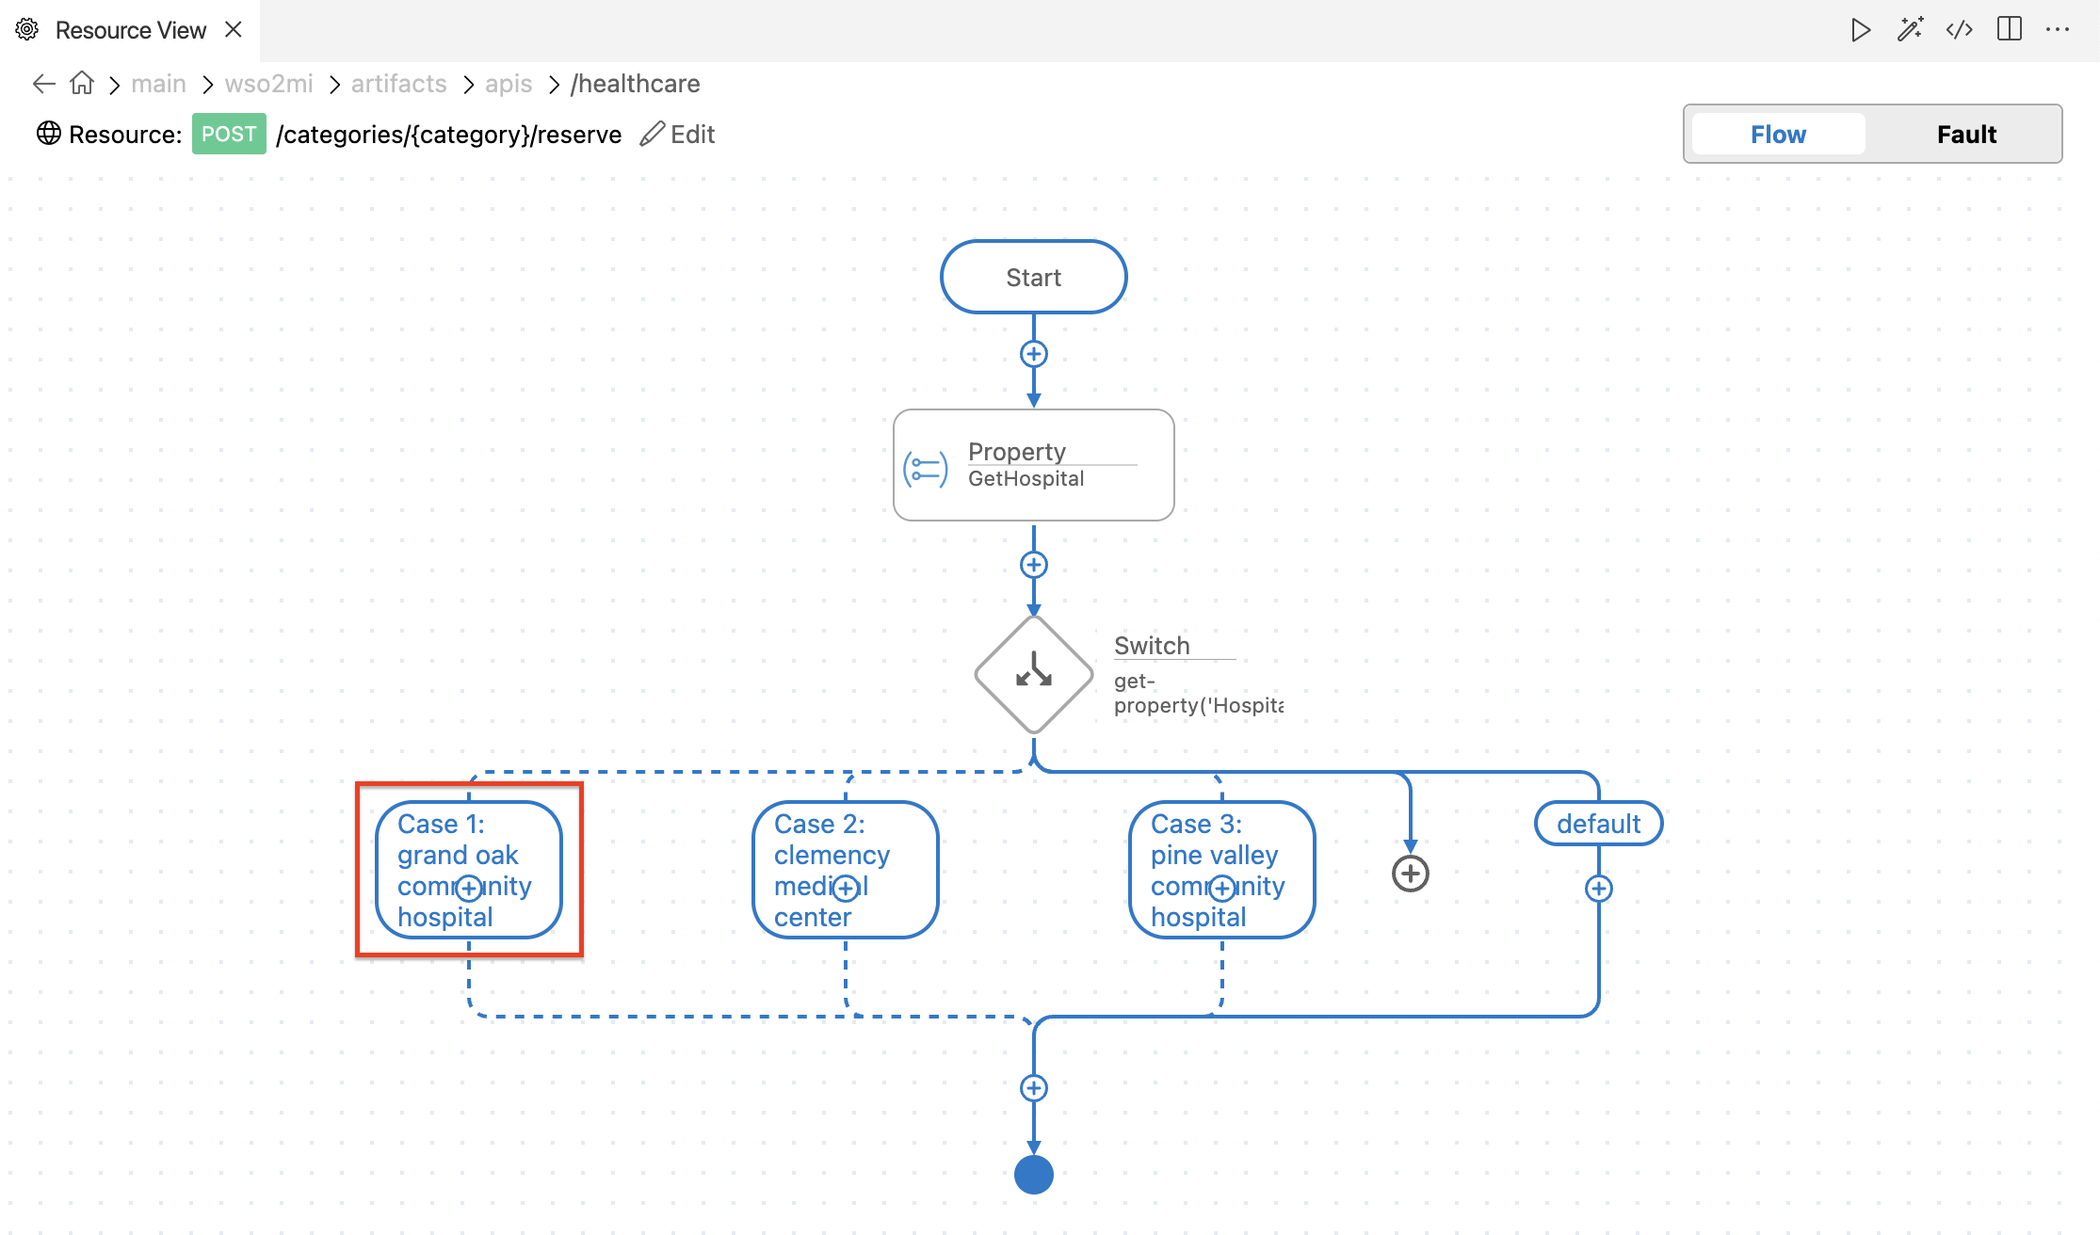
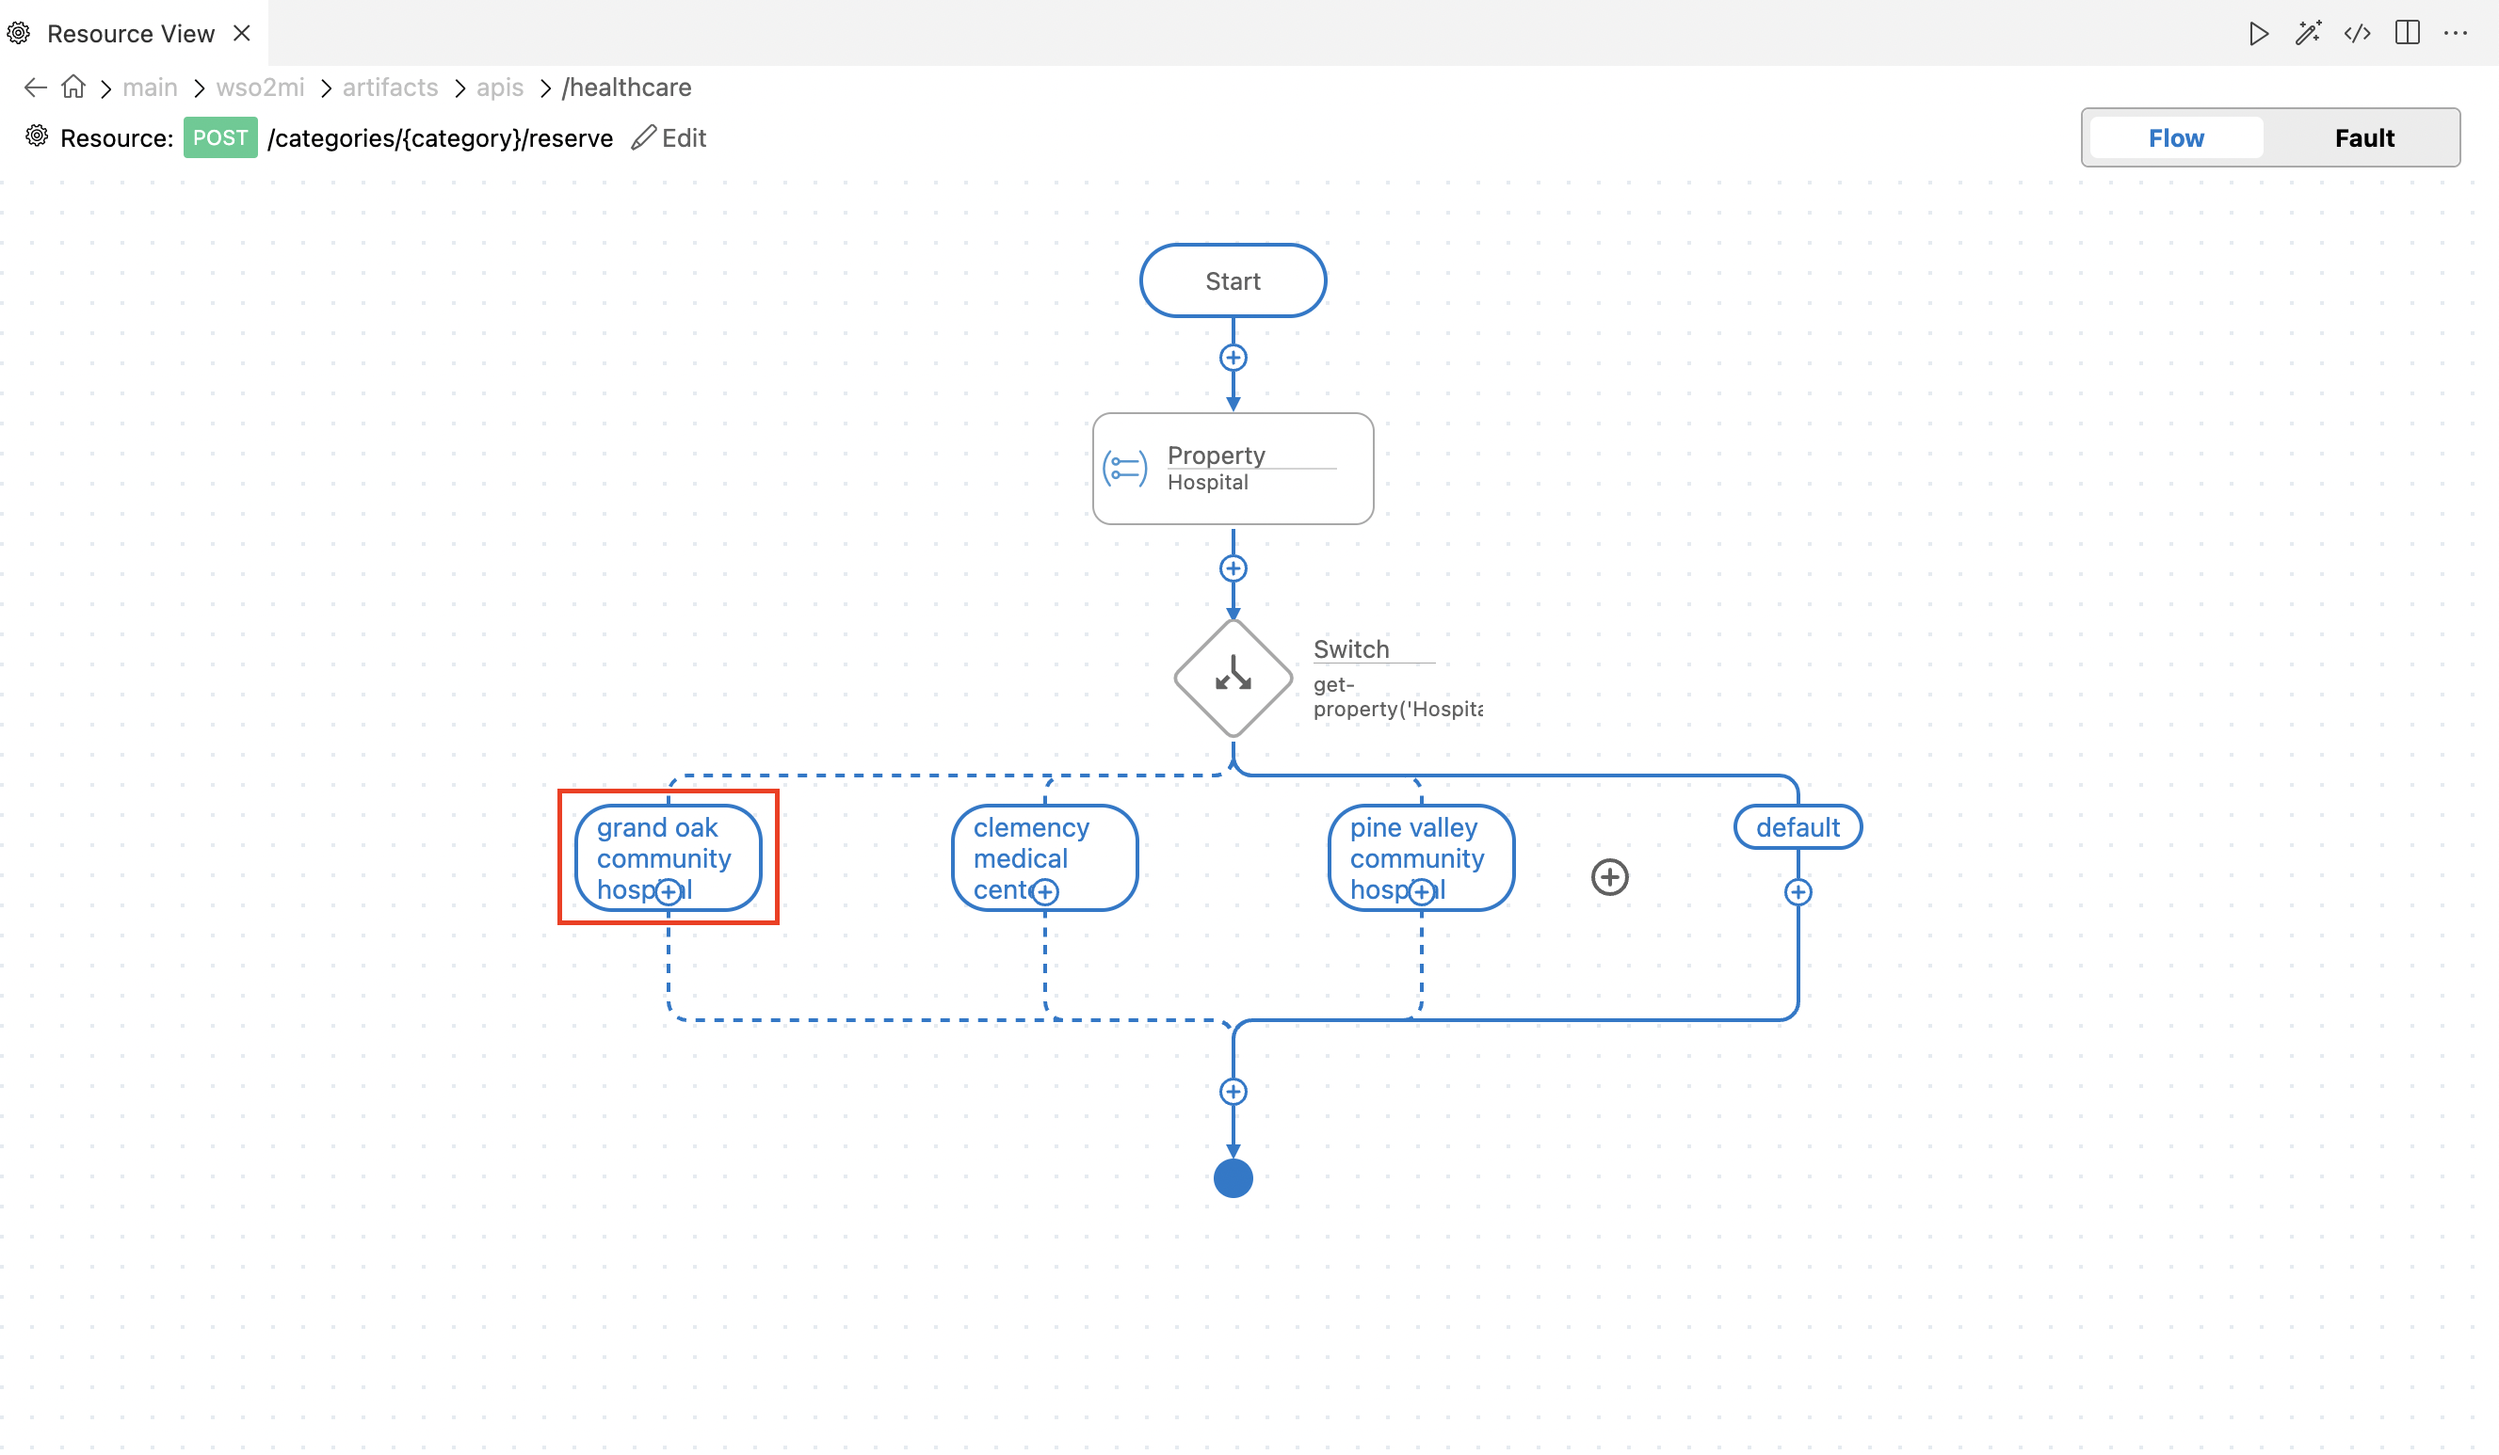
Fix message rounting tutorial issues
This is to fix:
https://github.com/wso2/docs-mi/issues/950
https://github.com/wso2/docs-mi/issues/952

diff --git a/en/docs/learn/integration-tutorials/routing-requests-based-on-message-content.md b/en/docs/learn/integration-tutorials/routing-requests-based-on-message-content.md
@@ -250,17 +250,22 @@ You can now start configuring the API resource.
    
       2. Change the **Case RegEx** value for the switch cases as follows:
 
+         Case1: 
          ```
-         Case 1: grand oak community hospital
+         grand oak community hospital
          ```
          
       3. Click **Save**.
 
       4. Similarly, add two other branches and change the **Case RegEx** value for the respective switch cases as follows.
 
+         Case 2:
          ```
-         Case 2: clemency medical center
-         Case 3: pine valley community hospital 
+         clemency medical center
+         ```
+         Case3:
+         ```
+         pine valley community hospital
          ```
 
 9. Click **Submit** to save the values for Switch mediator.
@@ -331,6 +336,13 @@ You can now start configuring the API resource.
             </ol>
         </td>
     </tr>
+    <tr>
+        <td>Description</td>
+        <td><code>GrandOak Log</code></td>
+        <td>
+           A description for the log mediator.
+        </td>
+    </tr>
     </table>
 
 12. Click **Submit**.
@@ -340,20 +352,19 @@ You can now start configuring the API resource.
     <a href="{{base_path}}/assets/img/learn/tutorials/message-routing/add-call-mediator.png"><img src="{{base_path}}/assets/img/learn/tutorials/message-routing/add-call-mediator.png" alt="add call mediator" width="60%"></a>
 
 14. On the **Call Endpoint** pane, select **GrandOakEP** from **Select Endpoint** dropdown.
-15. Provide `GrandOak Log` as the **Description**.
-16. Click **Submit**.
+15. Click **Submit**.
 
-17. Similarly, add **Log mediators** in the other two **Case boxes** in the Switch mediator and then enter the same properties. Make sure to name the two Log mediators as follows:
+16. Similarly, add **Log mediators** in the other two **Case boxes** in the Switch mediator and then enter the same properties. Make sure to add a description for the two Log mediators as follows:
 
     -   `Clemency Log`
     -   `Pine Valley Log`
 
-18. Add **Call** mediators after these log mediators and add the **ClemencyEP** and **PineValleyEP** endpoints respectively from the **Defined Endpoints** palette.
+17. Add **Call** mediators after these log mediators and add the **ClemencyEP** and **PineValleyEP** endpoints respectively from the **Defined Endpoints** palette.
 
     !!! Info
         You have now configured the Switch mediator to log the `Routing to <Hospital Name>` message when a request is sent to this API resource. The request message will then be routed to the relevant hospital back-end service based on the hospital name that is sent in the request payload.
 
-19. Add a **Log mediator** to the **Default** case of the Switch mediator and configure it the same way as the previous Log mediators.
+18. Add a **Log mediator** to the **Default** case of the Switch mediator and configure it the same way as the previous Log mediators.
 
      <a href="{{base_path}}/assets/img/learn/tutorials/message-routing/default-case.png"><img src="{{base_path}}/assets/img/learn/tutorials/message-routing/default-case.png" alt="default case" width="60%"></a>
 
@@ -362,7 +373,7 @@ You can now start configuring the API resource.
 
     The default case of the Switch mediator handles the invalid hospital requests that are sent to the request payload. This logs the message (`Invalid hospital - <Hospital Name>`) for requests that have the invalid hospital name.
 
-20. Add a **Respond mediator** just after the **Switch** mediator to return the response from the health care service back to the client.
+19. Add a **Respond mediator** just after the **Switch** mediator to return the response from the health care service back to the client.
 
 You have successfully created all the artifacts that are required for routing messages to a back-end service depending on the content in the request payload. 
 
